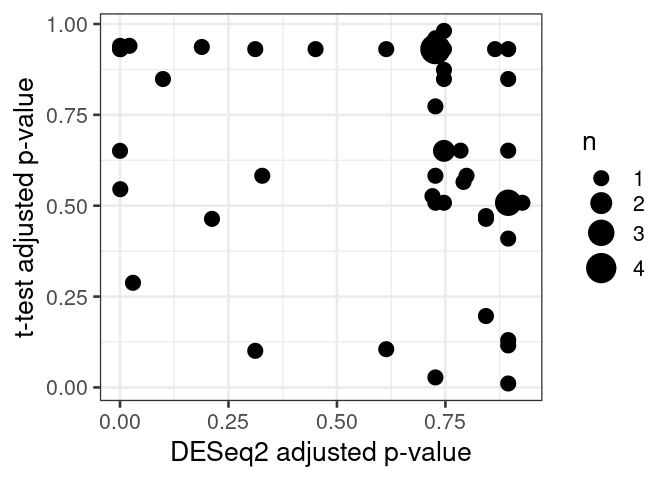
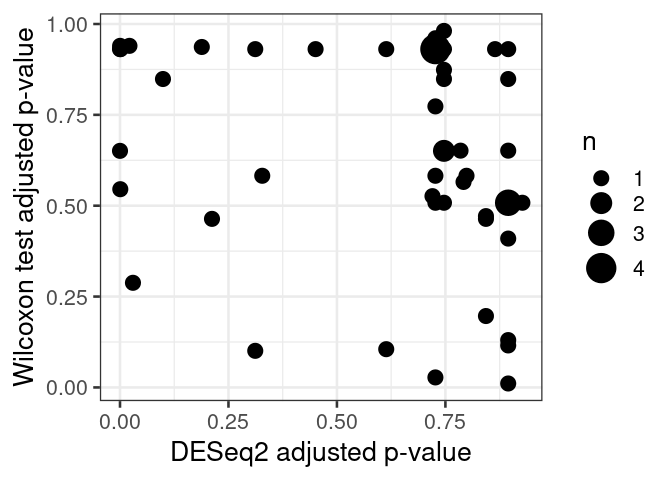
Minor change

Changed region(s): [[0.0, 0.0625, 0.0625, 0.8125]]

diff --git a/docs/abundance.html b/docs/abundance.html
@@ -467,7 +467,7 @@ we can see from the scatter plot, DESeq2 gives lower p-values than
 Wilcoxon test.</p>
 <pre><code>mf &lt;- data.frame(df$padj, wilcoxon_p$p_adjusted)
 p &lt;- ggplot(mf, aes(x = df$padj, y = wilcoxon_p$p_adjusted)) +
-       labs(x = &quot;DESeq2 adjusted p-value&quot;, y = &quot;t-test adjusted p-value&quot;) +
+       labs(x = &quot;DESeq2 adjusted p-value&quot;, y = &quot;Wilcoxon test adjusted p-value&quot;) +
        geom_count() +
  scale_size_area(max_size = 10)
 
@@ -648,7 +648,7 @@ gridExtra::grid.arrange(
     <script>
         var gitbook = gitbook || [];
         gitbook.push(function() {
-            gitbook.page.hasChanged({"page":{"title":"Differential abundance analysis","level":"1.8","depth":1,"previous":{"title":"DMM analysis","level":"1.7","depth":1,"path":"dmm.md","ref":"dmm.md","articles":[]},"dir":"ltr"},"config":{"gitbook":"*","theme":"default","variables":{},"plugins":[],"pluginsConfig":{"highlight":{},"search":{},"lunr":{"maxIndexSize":1000000,"ignoreSpecialCharacters":false},"sharing":{"facebook":true,"twitter":true,"google":false,"weibo":false,"instapaper":false,"vk":false,"all":["facebook","google","twitter","weibo","instapaper"]},"fontsettings":{"theme":"white","family":"sans","size":2},"theme-default":{"styles":{"website":"styles/website.css","pdf":"styles/pdf.css","epub":"styles/epub.css","mobi":"styles/mobi.css","ebook":"styles/ebook.css","print":"styles/print.css"},"showLevel":false}},"structure":{"langs":"LANGS.md","readme":"README.md","glossary":"GLOSSARY.md","summary":"SUMMARY.md"},"pdf":{"pageNumbers":true,"fontSize":12,"fontFamily":"Arial","paperSize":"a4","chapterMark":"pagebreak","pageBreaksBefore":"/","margin":{"right":62,"left":62,"top":56,"bottom":56}},"styles":{"website":"styles/website.css","pdf":"styles/pdf.css","epub":"styles/epub.css","mobi":"styles/mobi.css","ebook":"styles/ebook.css","print":"styles/print.css"}},"file":{"path":"abundance.md","mtime":"2021-06-08T15:12:31.948Z","type":"markdown"},"gitbook":{"version":"3.2.3","time":"2021-06-08T15:13:10.328Z"},"basePath":".","book":{"language":""}});
+            gitbook.page.hasChanged({"page":{"title":"Differential abundance analysis","level":"1.8","depth":1,"previous":{"title":"DMM analysis","level":"1.7","depth":1,"path":"dmm.md","ref":"dmm.md","articles":[]},"dir":"ltr"},"config":{"gitbook":"*","theme":"default","variables":{},"plugins":[],"pluginsConfig":{"highlight":{},"search":{},"lunr":{"maxIndexSize":1000000,"ignoreSpecialCharacters":false},"sharing":{"facebook":true,"twitter":true,"google":false,"weibo":false,"instapaper":false,"vk":false,"all":["facebook","google","twitter","weibo","instapaper"]},"fontsettings":{"theme":"white","family":"sans","size":2},"theme-default":{"styles":{"website":"styles/website.css","pdf":"styles/pdf.css","epub":"styles/epub.css","mobi":"styles/mobi.css","ebook":"styles/ebook.css","print":"styles/print.css"},"showLevel":false}},"structure":{"langs":"LANGS.md","readme":"README.md","glossary":"GLOSSARY.md","summary":"SUMMARY.md"},"pdf":{"pageNumbers":true,"fontSize":12,"fontFamily":"Arial","paperSize":"a4","chapterMark":"pagebreak","pageBreaksBefore":"/","margin":{"right":62,"left":62,"top":56,"bottom":56}},"styles":{"website":"styles/website.css","pdf":"styles/pdf.css","epub":"styles/epub.css","mobi":"styles/mobi.css","ebook":"styles/ebook.css","print":"styles/print.css"}},"file":{"path":"abundance.md","mtime":"2021-06-08T15:18:41.536Z","type":"markdown"},"gitbook":{"version":"3.2.3","time":"2021-06-08T15:18:54.920Z"},"basePath":".","book":{"language":""}});
         });
     </script>
 </div>

diff --git a/docs/dmm.html b/docs/dmm.html
@@ -436,7 +436,7 @@ euclidean_dmm_plot
     <script>
         var gitbook = gitbook || [];
         gitbook.push(function() {
-            gitbook.page.hasChanged({"page":{"title":"DMM analysis","level":"1.7","depth":1,"next":{"title":"Differential abundance analysis","level":"1.8","depth":1,"path":"abundance.md","ref":"abundance.md","articles":[]},"previous":{"title":"Calculate beta diversity","level":"1.6","depth":1,"path":"beta.md","ref":"beta.md","articles":[]},"dir":"ltr"},"config":{"gitbook":"*","theme":"default","variables":{},"plugins":[],"pluginsConfig":{"highlight":{},"search":{},"lunr":{"maxIndexSize":1000000,"ignoreSpecialCharacters":false},"sharing":{"facebook":true,"twitter":true,"google":false,"weibo":false,"instapaper":false,"vk":false,"all":["facebook","google","twitter","weibo","instapaper"]},"fontsettings":{"theme":"white","family":"sans","size":2},"theme-default":{"styles":{"website":"styles/website.css","pdf":"styles/pdf.css","epub":"styles/epub.css","mobi":"styles/mobi.css","ebook":"styles/ebook.css","print":"styles/print.css"},"showLevel":false}},"structure":{"langs":"LANGS.md","readme":"README.md","glossary":"GLOSSARY.md","summary":"SUMMARY.md"},"pdf":{"pageNumbers":true,"fontSize":12,"fontFamily":"Arial","paperSize":"a4","chapterMark":"pagebreak","pageBreaksBefore":"/","margin":{"right":62,"left":62,"top":56,"bottom":56}},"styles":{"website":"styles/website.css","pdf":"styles/pdf.css","epub":"styles/epub.css","mobi":"styles/mobi.css","ebook":"styles/ebook.css","print":"styles/print.css"}},"file":{"path":"dmm.md","mtime":"2021-06-08T15:12:06.797Z","type":"markdown"},"gitbook":{"version":"3.2.3","time":"2021-06-08T15:13:10.328Z"},"basePath":".","book":{"language":""}});
+            gitbook.page.hasChanged({"page":{"title":"DMM analysis","level":"1.7","depth":1,"next":{"title":"Differential abundance analysis","level":"1.8","depth":1,"path":"abundance.md","ref":"abundance.md","articles":[]},"previous":{"title":"Calculate beta diversity","level":"1.6","depth":1,"path":"beta.md","ref":"beta.md","articles":[]},"dir":"ltr"},"config":{"gitbook":"*","theme":"default","variables":{},"plugins":[],"pluginsConfig":{"highlight":{},"search":{},"lunr":{"maxIndexSize":1000000,"ignoreSpecialCharacters":false},"sharing":{"facebook":true,"twitter":true,"google":false,"weibo":false,"instapaper":false,"vk":false,"all":["facebook","google","twitter","weibo","instapaper"]},"fontsettings":{"theme":"white","family":"sans","size":2},"theme-default":{"styles":{"website":"styles/website.css","pdf":"styles/pdf.css","epub":"styles/epub.css","mobi":"styles/mobi.css","ebook":"styles/ebook.css","print":"styles/print.css"},"showLevel":false}},"structure":{"langs":"LANGS.md","readme":"README.md","glossary":"GLOSSARY.md","summary":"SUMMARY.md"},"pdf":{"pageNumbers":true,"fontSize":12,"fontFamily":"Arial","paperSize":"a4","chapterMark":"pagebreak","pageBreaksBefore":"/","margin":{"right":62,"left":62,"top":56,"bottom":56}},"styles":{"website":"styles/website.css","pdf":"styles/pdf.css","epub":"styles/epub.css","mobi":"styles/mobi.css","ebook":"styles/ebook.css","print":"styles/print.css"}},"file":{"path":"dmm.md","mtime":"2021-06-08T15:12:06.797Z","type":"markdown"},"gitbook":{"version":"3.2.3","time":"2021-06-08T15:18:54.920Z"},"basePath":".","book":{"language":""}});
         });
     </script>
 </div>

diff --git a/docs/alpha.html b/docs/alpha.html
@@ -464,7 +464,7 @@ wilcoxon_shannon_ADHD_cohorts
     <script>
         var gitbook = gitbook || [];
         gitbook.push(function() {
-            gitbook.page.hasChanged({"page":{"title":"Calculate alpha diversity","level":"1.5","depth":1,"next":{"title":"Calculate beta diversity","level":"1.6","depth":1,"path":"beta.md","ref":"beta.md","articles":[]},"previous":{"title":"Explore data","level":"1.4","depth":1,"path":"explore.md","ref":"explore.md","articles":[]},"dir":"ltr"},"config":{"gitbook":"*","theme":"default","variables":{},"plugins":[],"pluginsConfig":{"highlight":{},"search":{},"lunr":{"maxIndexSize":1000000,"ignoreSpecialCharacters":false},"sharing":{"facebook":true,"twitter":true,"google":false,"weibo":false,"instapaper":false,"vk":false,"all":["facebook","google","twitter","weibo","instapaper"]},"fontsettings":{"theme":"white","family":"sans","size":2},"theme-default":{"styles":{"website":"styles/website.css","pdf":"styles/pdf.css","epub":"styles/epub.css","mobi":"styles/mobi.css","ebook":"styles/ebook.css","print":"styles/print.css"},"showLevel":false}},"structure":{"langs":"LANGS.md","readme":"README.md","glossary":"GLOSSARY.md","summary":"SUMMARY.md"},"pdf":{"pageNumbers":true,"fontSize":12,"fontFamily":"Arial","paperSize":"a4","chapterMark":"pagebreak","pageBreaksBefore":"/","margin":{"right":62,"left":62,"top":56,"bottom":56}},"styles":{"website":"styles/website.css","pdf":"styles/pdf.css","epub":"styles/epub.css","mobi":"styles/mobi.css","ebook":"styles/ebook.css","print":"styles/print.css"}},"file":{"path":"alpha.md","mtime":"2021-06-08T15:11:46.362Z","type":"markdown"},"gitbook":{"version":"3.2.3","time":"2021-06-08T15:13:10.328Z"},"basePath":".","book":{"language":""}});
+            gitbook.page.hasChanged({"page":{"title":"Calculate alpha diversity","level":"1.5","depth":1,"next":{"title":"Calculate beta diversity","level":"1.6","depth":1,"path":"beta.md","ref":"beta.md","articles":[]},"previous":{"title":"Explore data","level":"1.4","depth":1,"path":"explore.md","ref":"explore.md","articles":[]},"dir":"ltr"},"config":{"gitbook":"*","theme":"default","variables":{},"plugins":[],"pluginsConfig":{"highlight":{},"search":{},"lunr":{"maxIndexSize":1000000,"ignoreSpecialCharacters":false},"sharing":{"facebook":true,"twitter":true,"google":false,"weibo":false,"instapaper":false,"vk":false,"all":["facebook","google","twitter","weibo","instapaper"]},"fontsettings":{"theme":"white","family":"sans","size":2},"theme-default":{"styles":{"website":"styles/website.css","pdf":"styles/pdf.css","epub":"styles/epub.css","mobi":"styles/mobi.css","ebook":"styles/ebook.css","print":"styles/print.css"},"showLevel":false}},"structure":{"langs":"LANGS.md","readme":"README.md","glossary":"GLOSSARY.md","summary":"SUMMARY.md"},"pdf":{"pageNumbers":true,"fontSize":12,"fontFamily":"Arial","paperSize":"a4","chapterMark":"pagebreak","pageBreaksBefore":"/","margin":{"right":62,"left":62,"top":56,"bottom":56}},"styles":{"website":"styles/website.css","pdf":"styles/pdf.css","epub":"styles/epub.css","mobi":"styles/mobi.css","ebook":"styles/ebook.css","print":"styles/print.css"}},"file":{"path":"alpha.md","mtime":"2021-06-08T15:11:46.362Z","type":"markdown"},"gitbook":{"version":"3.2.3","time":"2021-06-08T15:18:54.920Z"},"basePath":".","book":{"language":""}});
         });
     </script>
 </div>

diff --git a/docs/import.html b/docs/import.html
@@ -644,7 +644,7 @@ head(tse)
     <script>
         var gitbook = gitbook || [];
         gitbook.push(function() {
-            gitbook.page.hasChanged({"page":{"title":"Import data","level":"1.3","depth":1,"next":{"title":"Explore data","level":"1.4","depth":1,"path":"explore.md","ref":"explore.md","articles":[]},"previous":{"title":"Install and load required R packages","level":"1.2","depth":1,"path":"install.md","ref":"install.md","articles":[]},"dir":"ltr"},"config":{"gitbook":"*","theme":"default","variables":{},"plugins":[],"pluginsConfig":{"highlight":{},"search":{},"lunr":{"maxIndexSize":1000000,"ignoreSpecialCharacters":false},"sharing":{"facebook":true,"twitter":true,"google":false,"weibo":false,"instapaper":false,"vk":false,"all":["facebook","google","twitter","weibo","instapaper"]},"fontsettings":{"theme":"white","family":"sans","size":2},"theme-default":{"styles":{"website":"styles/website.css","pdf":"styles/pdf.css","epub":"styles/epub.css","mobi":"styles/mobi.css","ebook":"styles/ebook.css","print":"styles/print.css"},"showLevel":false}},"structure":{"langs":"LANGS.md","readme":"README.md","glossary":"GLOSSARY.md","summary":"SUMMARY.md"},"pdf":{"pageNumbers":true,"fontSize":12,"fontFamily":"Arial","paperSize":"a4","chapterMark":"pagebreak","pageBreaksBefore":"/","margin":{"right":62,"left":62,"top":56,"bottom":56}},"styles":{"website":"styles/website.css","pdf":"styles/pdf.css","epub":"styles/epub.css","mobi":"styles/mobi.css","ebook":"styles/ebook.css","print":"styles/print.css"}},"file":{"path":"import.md","mtime":"2021-06-08T15:11:33.034Z","type":"markdown"},"gitbook":{"version":"3.2.3","time":"2021-06-08T15:13:10.328Z"},"basePath":".","book":{"language":""}});
+            gitbook.page.hasChanged({"page":{"title":"Import data","level":"1.3","depth":1,"next":{"title":"Explore data","level":"1.4","depth":1,"path":"explore.md","ref":"explore.md","articles":[]},"previous":{"title":"Install and load required R packages","level":"1.2","depth":1,"path":"install.md","ref":"install.md","articles":[]},"dir":"ltr"},"config":{"gitbook":"*","theme":"default","variables":{},"plugins":[],"pluginsConfig":{"highlight":{},"search":{},"lunr":{"maxIndexSize":1000000,"ignoreSpecialCharacters":false},"sharing":{"facebook":true,"twitter":true,"google":false,"weibo":false,"instapaper":false,"vk":false,"all":["facebook","google","twitter","weibo","instapaper"]},"fontsettings":{"theme":"white","family":"sans","size":2},"theme-default":{"styles":{"website":"styles/website.css","pdf":"styles/pdf.css","epub":"styles/epub.css","mobi":"styles/mobi.css","ebook":"styles/ebook.css","print":"styles/print.css"},"showLevel":false}},"structure":{"langs":"LANGS.md","readme":"README.md","glossary":"GLOSSARY.md","summary":"SUMMARY.md"},"pdf":{"pageNumbers":true,"fontSize":12,"fontFamily":"Arial","paperSize":"a4","chapterMark":"pagebreak","pageBreaksBefore":"/","margin":{"right":62,"left":62,"top":56,"bottom":56}},"styles":{"website":"styles/website.css","pdf":"styles/pdf.css","epub":"styles/epub.css","mobi":"styles/mobi.css","ebook":"styles/ebook.css","print":"styles/print.css"}},"file":{"path":"import.md","mtime":"2021-06-08T15:11:33.034Z","type":"markdown"},"gitbook":{"version":"3.2.3","time":"2021-06-08T15:18:54.920Z"},"basePath":".","book":{"language":""}});
         });
     </script>
 </div>

diff --git a/docs/install.html b/docs/install.html
@@ -325,7 +325,7 @@ library(miaViz)
     <script>
         var gitbook = gitbook || [];
         gitbook.push(function() {
-            gitbook.page.hasChanged({"page":{"title":"Install and load required R packages","level":"1.2","depth":1,"next":{"title":"Import data","level":"1.3","depth":1,"path":"import.md","ref":"import.md","articles":[]},"previous":{"title":"Introduction","level":"1.1","depth":1,"path":"README.md","ref":"README.md","articles":[]},"dir":"ltr"},"config":{"gitbook":"*","theme":"default","variables":{},"plugins":[],"pluginsConfig":{"highlight":{},"search":{},"lunr":{"maxIndexSize":1000000,"ignoreSpecialCharacters":false},"sharing":{"facebook":true,"twitter":true,"google":false,"weibo":false,"instapaper":false,"vk":false,"all":["facebook","google","twitter","weibo","instapaper"]},"fontsettings":{"theme":"white","family":"sans","size":2},"theme-default":{"styles":{"website":"styles/website.css","pdf":"styles/pdf.css","epub":"styles/epub.css","mobi":"styles/mobi.css","ebook":"styles/ebook.css","print":"styles/print.css"},"showLevel":false}},"structure":{"langs":"LANGS.md","readme":"README.md","glossary":"GLOSSARY.md","summary":"SUMMARY.md"},"pdf":{"pageNumbers":true,"fontSize":12,"fontFamily":"Arial","paperSize":"a4","chapterMark":"pagebreak","pageBreaksBefore":"/","margin":{"right":62,"left":62,"top":56,"bottom":56}},"styles":{"website":"styles/website.css","pdf":"styles/pdf.css","epub":"styles/epub.css","mobi":"styles/mobi.css","ebook":"styles/ebook.css","print":"styles/print.css"}},"file":{"path":"install.md","mtime":"2021-06-08T15:11:26.979Z","type":"markdown"},"gitbook":{"version":"3.2.3","time":"2021-06-08T15:13:10.328Z"},"basePath":".","book":{"language":""}});
+            gitbook.page.hasChanged({"page":{"title":"Install and load required R packages","level":"1.2","depth":1,"next":{"title":"Import data","level":"1.3","depth":1,"path":"import.md","ref":"import.md","articles":[]},"previous":{"title":"Introduction","level":"1.1","depth":1,"path":"README.md","ref":"README.md","articles":[]},"dir":"ltr"},"config":{"gitbook":"*","theme":"default","variables":{},"plugins":[],"pluginsConfig":{"highlight":{},"search":{},"lunr":{"maxIndexSize":1000000,"ignoreSpecialCharacters":false},"sharing":{"facebook":true,"twitter":true,"google":false,"weibo":false,"instapaper":false,"vk":false,"all":["facebook","google","twitter","weibo","instapaper"]},"fontsettings":{"theme":"white","family":"sans","size":2},"theme-default":{"styles":{"website":"styles/website.css","pdf":"styles/pdf.css","epub":"styles/epub.css","mobi":"styles/mobi.css","ebook":"styles/ebook.css","print":"styles/print.css"},"showLevel":false}},"structure":{"langs":"LANGS.md","readme":"README.md","glossary":"GLOSSARY.md","summary":"SUMMARY.md"},"pdf":{"pageNumbers":true,"fontSize":12,"fontFamily":"Arial","paperSize":"a4","chapterMark":"pagebreak","pageBreaksBefore":"/","margin":{"right":62,"left":62,"top":56,"bottom":56}},"styles":{"website":"styles/website.css","pdf":"styles/pdf.css","epub":"styles/epub.css","mobi":"styles/mobi.css","ebook":"styles/ebook.css","print":"styles/print.css"}},"file":{"path":"install.md","mtime":"2021-06-08T15:11:26.979Z","type":"markdown"},"gitbook":{"version":"3.2.3","time":"2021-06-08T15:18:54.920Z"},"basePath":".","book":{"language":""}});
         });
     </script>
 </div>

diff --git a/docs/beta.html b/docs/beta.html
@@ -521,7 +521,7 @@ top_taxa_coeffient_plot
     <script>
         var gitbook = gitbook || [];
         gitbook.push(function() {
-            gitbook.page.hasChanged({"page":{"title":"Calculate beta diversity","level":"1.6","depth":1,"next":{"title":"DMM analysis","level":"1.7","depth":1,"path":"dmm.md","ref":"dmm.md","articles":[]},"previous":{"title":"Calculate alpha diversity","level":"1.5","depth":1,"path":"alpha.md","ref":"alpha.md","articles":[]},"dir":"ltr"},"config":{"gitbook":"*","theme":"default","variables":{},"plugins":[],"pluginsConfig":{"highlight":{},"search":{},"lunr":{"maxIndexSize":1000000,"ignoreSpecialCharacters":false},"sharing":{"facebook":true,"twitter":true,"google":false,"weibo":false,"instapaper":false,"vk":false,"all":["facebook","google","twitter","weibo","instapaper"]},"fontsettings":{"theme":"white","family":"sans","size":2},"theme-default":{"styles":{"website":"styles/website.css","pdf":"styles/pdf.css","epub":"styles/epub.css","mobi":"styles/mobi.css","ebook":"styles/ebook.css","print":"styles/print.css"},"showLevel":false}},"structure":{"langs":"LANGS.md","readme":"README.md","glossary":"GLOSSARY.md","summary":"SUMMARY.md"},"pdf":{"pageNumbers":true,"fontSize":12,"fontFamily":"Arial","paperSize":"a4","chapterMark":"pagebreak","pageBreaksBefore":"/","margin":{"right":62,"left":62,"top":56,"bottom":56}},"styles":{"website":"styles/website.css","pdf":"styles/pdf.css","epub":"styles/epub.css","mobi":"styles/mobi.css","ebook":"styles/ebook.css","print":"styles/print.css"}},"file":{"path":"beta.md","mtime":"2021-06-08T15:11:52.334Z","type":"markdown"},"gitbook":{"version":"3.2.3","time":"2021-06-08T15:13:10.328Z"},"basePath":".","book":{"language":""}});
+            gitbook.page.hasChanged({"page":{"title":"Calculate beta diversity","level":"1.6","depth":1,"next":{"title":"DMM analysis","level":"1.7","depth":1,"path":"dmm.md","ref":"dmm.md","articles":[]},"previous":{"title":"Calculate alpha diversity","level":"1.5","depth":1,"path":"alpha.md","ref":"alpha.md","articles":[]},"dir":"ltr"},"config":{"gitbook":"*","theme":"default","variables":{},"plugins":[],"pluginsConfig":{"highlight":{},"search":{},"lunr":{"maxIndexSize":1000000,"ignoreSpecialCharacters":false},"sharing":{"facebook":true,"twitter":true,"google":false,"weibo":false,"instapaper":false,"vk":false,"all":["facebook","google","twitter","weibo","instapaper"]},"fontsettings":{"theme":"white","family":"sans","size":2},"theme-default":{"styles":{"website":"styles/website.css","pdf":"styles/pdf.css","epub":"styles/epub.css","mobi":"styles/mobi.css","ebook":"styles/ebook.css","print":"styles/print.css"},"showLevel":false}},"structure":{"langs":"LANGS.md","readme":"README.md","glossary":"GLOSSARY.md","summary":"SUMMARY.md"},"pdf":{"pageNumbers":true,"fontSize":12,"fontFamily":"Arial","paperSize":"a4","chapterMark":"pagebreak","pageBreaksBefore":"/","margin":{"right":62,"left":62,"top":56,"bottom":56}},"styles":{"website":"styles/website.css","pdf":"styles/pdf.css","epub":"styles/epub.css","mobi":"styles/mobi.css","ebook":"styles/ebook.css","print":"styles/print.css"}},"file":{"path":"beta.md","mtime":"2021-06-08T15:11:52.334Z","type":"markdown"},"gitbook":{"version":"3.2.3","time":"2021-06-08T15:18:54.920Z"},"basePath":".","book":{"language":""}});
         });
     </script>
 </div>

diff --git a/docs/explore.html b/docs/explore.html
@@ -680,7 +680,7 @@ vignette</a>.</p>
     <script>
         var gitbook = gitbook || [];
         gitbook.push(function() {
-            gitbook.page.hasChanged({"page":{"title":"Explore data","level":"1.4","depth":1,"next":{"title":"Calculate alpha diversity","level":"1.5","depth":1,"path":"alpha.md","ref":"alpha.md","articles":[]},"previous":{"title":"Import data","level":"1.3","depth":1,"path":"import.md","ref":"import.md","articles":[]},"dir":"ltr"},"config":{"gitbook":"*","theme":"default","variables":{},"plugins":[],"pluginsConfig":{"highlight":{},"search":{},"lunr":{"maxIndexSize":1000000,"ignoreSpecialCharacters":false},"sharing":{"facebook":true,"twitter":true,"google":false,"weibo":false,"instapaper":false,"vk":false,"all":["facebook","google","twitter","weibo","instapaper"]},"fontsettings":{"theme":"white","family":"sans","size":2},"theme-default":{"styles":{"website":"styles/website.css","pdf":"styles/pdf.css","epub":"styles/epub.css","mobi":"styles/mobi.css","ebook":"styles/ebook.css","print":"styles/print.css"},"showLevel":false}},"structure":{"langs":"LANGS.md","readme":"README.md","glossary":"GLOSSARY.md","summary":"SUMMARY.md"},"pdf":{"pageNumbers":true,"fontSize":12,"fontFamily":"Arial","paperSize":"a4","chapterMark":"pagebreak","pageBreaksBefore":"/","margin":{"right":62,"left":62,"top":56,"bottom":56}},"styles":{"website":"styles/website.css","pdf":"styles/pdf.css","epub":"styles/epub.css","mobi":"styles/mobi.css","ebook":"styles/ebook.css","print":"styles/print.css"}},"file":{"path":"explore.md","mtime":"2021-06-08T15:11:41.650Z","type":"markdown"},"gitbook":{"version":"3.2.3","time":"2021-06-08T15:13:10.328Z"},"basePath":".","book":{"language":""}});
+            gitbook.page.hasChanged({"page":{"title":"Explore data","level":"1.4","depth":1,"next":{"title":"Calculate alpha diversity","level":"1.5","depth":1,"path":"alpha.md","ref":"alpha.md","articles":[]},"previous":{"title":"Import data","level":"1.3","depth":1,"path":"import.md","ref":"import.md","articles":[]},"dir":"ltr"},"config":{"gitbook":"*","theme":"default","variables":{},"plugins":[],"pluginsConfig":{"highlight":{},"search":{},"lunr":{"maxIndexSize":1000000,"ignoreSpecialCharacters":false},"sharing":{"facebook":true,"twitter":true,"google":false,"weibo":false,"instapaper":false,"vk":false,"all":["facebook","google","twitter","weibo","instapaper"]},"fontsettings":{"theme":"white","family":"sans","size":2},"theme-default":{"styles":{"website":"styles/website.css","pdf":"styles/pdf.css","epub":"styles/epub.css","mobi":"styles/mobi.css","ebook":"styles/ebook.css","print":"styles/print.css"},"showLevel":false}},"structure":{"langs":"LANGS.md","readme":"README.md","glossary":"GLOSSARY.md","summary":"SUMMARY.md"},"pdf":{"pageNumbers":true,"fontSize":12,"fontFamily":"Arial","paperSize":"a4","chapterMark":"pagebreak","pageBreaksBefore":"/","margin":{"right":62,"left":62,"top":56,"bottom":56}},"styles":{"website":"styles/website.css","pdf":"styles/pdf.css","epub":"styles/epub.css","mobi":"styles/mobi.css","ebook":"styles/ebook.css","print":"styles/print.css"}},"file":{"path":"explore.md","mtime":"2021-06-08T15:11:41.650Z","type":"markdown"},"gitbook":{"version":"3.2.3","time":"2021-06-08T15:18:54.920Z"},"basePath":".","book":{"language":""}});
         });
     </script>
 </div>

diff --git a/docs/index.html b/docs/index.html
@@ -315,7 +315,7 @@ Microbiome 8:44. </p>
     <script>
         var gitbook = gitbook || [];
         gitbook.push(function() {
-            gitbook.page.hasChanged({"page":{"title":"Introduction","level":"1.1","depth":1,"next":{"title":"Install and load required R packages","level":"1.2","depth":1,"path":"install.md","ref":"install.md","articles":[]},"dir":"ltr"},"config":{"gitbook":"*","theme":"default","variables":{},"plugins":[],"pluginsConfig":{"highlight":{},"search":{},"lunr":{"maxIndexSize":1000000,"ignoreSpecialCharacters":false},"sharing":{"facebook":true,"twitter":true,"google":false,"weibo":false,"instapaper":false,"vk":false,"all":["facebook","google","twitter","weibo","instapaper"]},"fontsettings":{"theme":"white","family":"sans","size":2},"theme-default":{"styles":{"website":"styles/website.css","pdf":"styles/pdf.css","epub":"styles/epub.css","mobi":"styles/mobi.css","ebook":"styles/ebook.css","print":"styles/print.css"},"showLevel":false}},"structure":{"langs":"LANGS.md","readme":"README.md","glossary":"GLOSSARY.md","summary":"SUMMARY.md"},"pdf":{"pageNumbers":true,"fontSize":12,"fontFamily":"Arial","paperSize":"a4","chapterMark":"pagebreak","pageBreaksBefore":"/","margin":{"right":62,"left":62,"top":56,"bottom":56}},"styles":{"website":"styles/website.css","pdf":"styles/pdf.css","epub":"styles/epub.css","mobi":"styles/mobi.css","ebook":"styles/ebook.css","print":"styles/print.css"}},"file":{"path":"README.md","mtime":"2021-06-08T06:01:27.183Z","type":"markdown"},"gitbook":{"version":"3.2.3","time":"2021-06-08T15:13:10.328Z"},"basePath":".","book":{"language":""}});
+            gitbook.page.hasChanged({"page":{"title":"Introduction","level":"1.1","depth":1,"next":{"title":"Install and load required R packages","level":"1.2","depth":1,"path":"install.md","ref":"install.md","articles":[]},"dir":"ltr"},"config":{"gitbook":"*","theme":"default","variables":{},"plugins":[],"pluginsConfig":{"highlight":{},"search":{},"lunr":{"maxIndexSize":1000000,"ignoreSpecialCharacters":false},"sharing":{"facebook":true,"twitter":true,"google":false,"weibo":false,"instapaper":false,"vk":false,"all":["facebook","google","twitter","weibo","instapaper"]},"fontsettings":{"theme":"white","family":"sans","size":2},"theme-default":{"styles":{"website":"styles/website.css","pdf":"styles/pdf.css","epub":"styles/epub.css","mobi":"styles/mobi.css","ebook":"styles/ebook.css","print":"styles/print.css"},"showLevel":false}},"structure":{"langs":"LANGS.md","readme":"README.md","glossary":"GLOSSARY.md","summary":"SUMMARY.md"},"pdf":{"pageNumbers":true,"fontSize":12,"fontFamily":"Arial","paperSize":"a4","chapterMark":"pagebreak","pageBreaksBefore":"/","margin":{"right":62,"left":62,"top":56,"bottom":56}},"styles":{"website":"styles/website.css","pdf":"styles/pdf.css","epub":"styles/epub.css","mobi":"styles/mobi.css","ebook":"styles/ebook.css","print":"styles/print.css"}},"file":{"path":"README.md","mtime":"2021-06-08T06:01:27.183Z","type":"markdown"},"gitbook":{"version":"3.2.3","time":"2021-06-08T15:18:54.920Z"},"basePath":".","book":{"language":""}});
         });
     </script>
 </div>

diff --git a/abundance.md b/abundance.md
@@ -256,7 +256,7 @@ Wilcoxon test.
 
     mf <- data.frame(df$padj, wilcoxon_p$p_adjusted)
     p <- ggplot(mf, aes(x = df$padj, y = wilcoxon_p$p_adjusted)) +
-           labs(x = "DESeq2 adjusted p-value", y = "t-test adjusted p-value") +
+           labs(x = "DESeq2 adjusted p-value", y = "Wilcoxon test adjusted p-value") +
            geom_count() +
      scale_size_area(max_size = 10)
 
